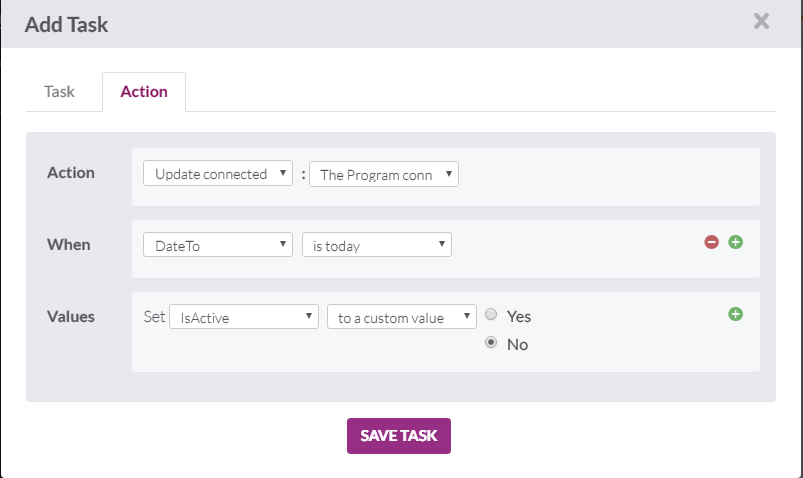
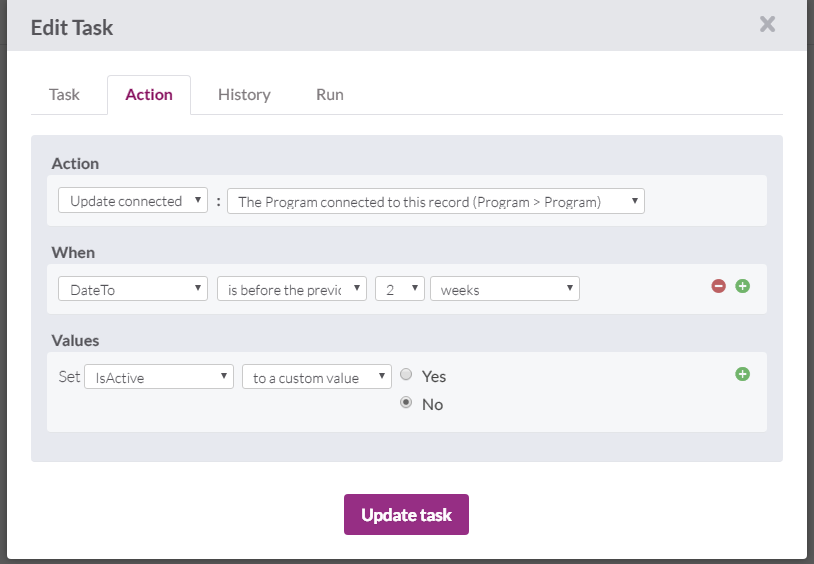
Added/Updated Guides for 12, 14, 23, 27, 42

diff --git a/changes/10.md b/changes/10.md
@@ -1,21 +1,23 @@
-# 10
+# 10 As a supervisor, I want to be able to know who is assigned to my facility so that I can know who has access to edit my programs
 
 1. Edit This Facility View by adding Table (not list).
-
-![](images/10/01.png)
+   ![](images/10/01.png)
 
 2. Choose Staffs
-
-![](images/10/02.png)
+   ![](images/10/02.png)
 
 3. Click Add view
+   ![](images/10/03.png)
 
-![](images/10/03.png)
+4. Keep Staffs table at the bottom and edit Staffs table.
+   ![](images/10/04.png)
 
-4. Move Staffs table under Staff Menu and edit Staffs table.
+5. Edit Table so that includes the following in order: Name, Email, Staff Title, Phone Number, Secondary Email. 
+   ![](images/10/05.png)
 
-![](images/10/04.png)
+6. Edit Title and description as seen below. Then Save Changes.
+   ![](images/10/06.png)
 
-5. Edit Table so that includes the following in order: Name, Email, Staff Title, Phone Number, Secondary Email. Then Save Changes.
+7. Add filter for Governance staff
 
-![](images/10/05.png)
+   ![](images/10/07.png)

diff --git a/changes/42.md b/changes/42.md
@@ -1,5 +1,6 @@
 # 42
 
+### Make Programs Inactive
 1. Go to Data and go to Tasks under FacilitySchedule.
 
 ![](images/42/01.png)
@@ -15,3 +16,31 @@
 4. Fill out as shown below and Save Task.
 
 ![](images/42/04.png)
+
+### Make Programs Active
+
+5. Go to Data and go to Tasks Under Facility Schedule
+   ![](images/42/05.png)
+
+6. Click to Add Task
+   ![](images/42/02.png)
+
+7. Fill out as shown below.
+   ![](images/42/06.png)
+
+8. Fill out as shown below and Save Task.
+   ![](images/42/07.png)
+
+### Change view for
+
+9. Edit the Programs table under ThisFacility.
+   ![](images/42/08.png)
+
+10. Add IsActive to the table
+   ![](images/42/09.png)
+
+11. Edit the Column Header to "Is Program Active?"
+
+   ![](images/42/10.png)
+
+12.  Go to Options and check Inline Editing. Save Changes.![](images/42/11.png)

diff --git a/changes/14.md b/changes/14.md
@@ -1,17 +1,10 @@
-# 14
+# 14 Make it easier to return to main screen after inputting program schedule information
 
-1. Add a link to Staff under Add Program Schedule.
+Edit link that appears after submission and take you back to staff.
+1. Go to Add Program Schedule settings.
 
 ![01](images/14/01.PNG)
 
-2. Move the Menu above Add Program Schedule. Then edit it.
+2. Edit the link to go to #staff.
 
 ![02](images/14/02.PNG)
-
-3. Change the name to My Profile setting the Page to Staff.
-
-![03](images/14/03.PNG)
-
-4. Save Changes.
-
-![04](images/14/04.PNG)

diff --git a/changes/27.md b/changes/27.md
@@ -1,4 +1,4 @@
-# 27
+# 27 As a PPR staff person, I want to be able to view where one of my colleagues is assigned and their (facility) contact information, so that I can contact them.
 
 1. Create new page using the "Link to a new page" Start by editing the "Staff Menu" in Staff.
    ![1](images/27/01.png)
